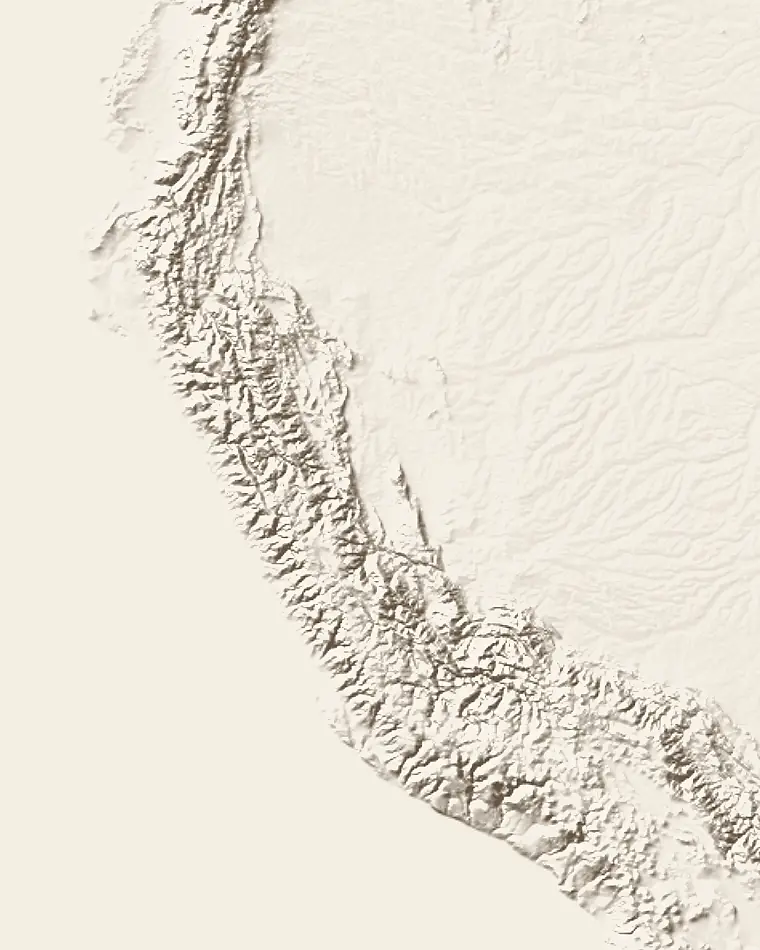
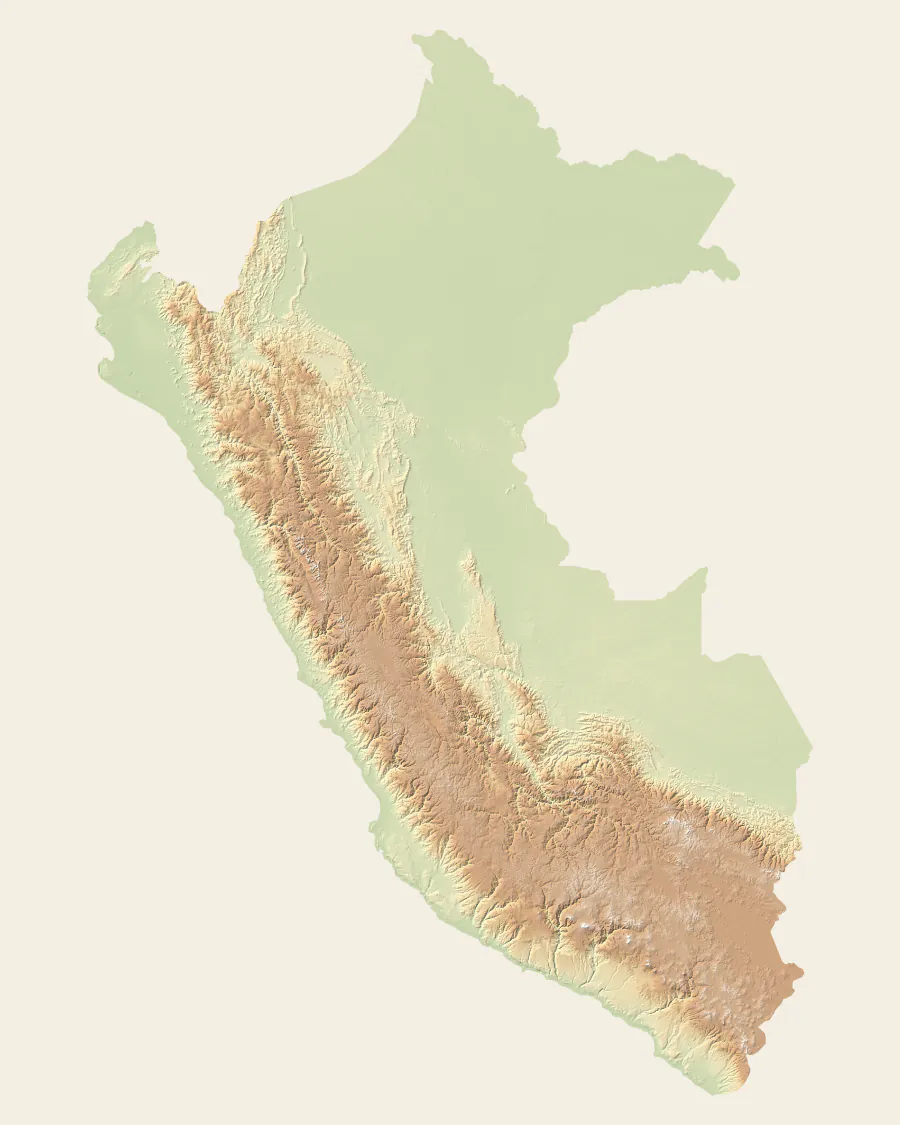
Mappa atlante del Perù a colori: tinta altimetrica da SRTM30_PLUS con rilievo a due livelli, mare e fiumi ad acquerello, vicini con velature da vecchio atlante; percorso nell'ordine vero dei giorni con curve e frecce, etichette e gruppi sistemati

diff --git a/src/components/MappaAtlante.tsx b/src/components/MappaAtlante.tsx
@@ -17,7 +17,7 @@ import type { DatiMappa, PuntoMappa } from './MappaPaese'
 
 export type DatiAtlante = {
   fonte: string
-  rilievo: { src: string; x: number; y: number; w: number; h: number }
+  rilievo: { src: string; srcHd?: string; x: number; y: number; w: number; h: number }
   vicini: { id: string; path: string }[]
   fiumi: { id: string; peso: number; path: string }[]
   laghi: { id: string; path: string }[]
@@ -50,7 +50,7 @@ const T = {
     esperienza: 'Esperienza',
     luoghiVicini: 'Luoghi vicini',
     percorso: 'Percorso, in ordine di tappa',
-    fonti: 'Contorni, fiumi e rilievo: Natural Earth. Luoghi:',
+    fonti: 'Contorni e fiumi: Natural Earth. Rilievo: SRTM30_PLUS (UCSD/NOAA). Luoghi:',
     contributors: 'contributors.',
     apriDestinazione: 'Apri la destinazione',
     apriEsperienza: "Apri l'esperienza",
@@ -78,7 +78,7 @@ const T = {
     esperienza: 'Experience',
     luoghiVicini: 'Places close together',
     percorso: 'Route, stop by stop',
-    fonti: 'Outlines, rivers and relief: Natural Earth. Places:',
+    fonti: 'Outlines and rivers: Natural Earth. Relief: SRTM30_PLUS (UCSD/NOAA). Places:',
     contributors: 'contributors.',
     apriDestinazione: 'Open the destination',
     apriEsperienza: 'Open the experience',
@@ -106,7 +106,7 @@ const T = {
     esperienza: 'Experiencia',
     luoghiVicini: 'Lugares cercanos',
     percorso: 'Ruta, etapa por etapa',
-    fonti: 'Contornos, ríos y relieve: Natural Earth. Lugares:',
+    fonti: 'Contornos y ríos: Natural Earth. Relieve: SRTM30_PLUS (UCSD/NOAA). Lugares:',
     contributors: 'contributors.',
     apriDestinazione: 'Abrir el destino',
     apriEsperienza: 'Abrir la experiencia',
@@ -129,14 +129,26 @@ const mercLat = (y: number) => (Math.atan(Math.exp((y * Math.PI) / 180)) * 360) 
 const sovrapposti = (p: Box, q: Box) => !(p[2] < q[0] || p[0] > q[2] || p[3] < q[1] || p[1] > q[3])
 
 // carta, inchiostro e acque «da stampa»
-const MARE = '#ebe5d7'
-const VICINO = '#dedad2'
-const BORDO_VICINO = '#aaa497'
-const ACQUA = '#557286'
-const RIGA = '#b9b3a4'
-const GRIGLIA = '#b8b09f'
+// acquerello: mare azzurro velato, più carico lungo le coste; Paesi vicini con una velatura ciascuno
+const MARE = '#dce8ea'
+const MARE_COSTA = '#cfe0e4'
+const ONDE = '#7d9eab'
+const ACQUA = '#3c6d8c' // fiumi e contorno dei laghi
+const SCRITTA_ACQUA = '#2c5873' // ≥ 4.5:1 sull'alone panna
+const RIGA = '#93b2bc'
+const GRIGLIA = '#a9a08c'
+const BORDO_VICINO = '#9e9789'
+const VELATURE: Record<string, [string, string]> = {
+  // [velatura, bordo più carico all'interno del confine]
+  ecuador: ['#f0dedb', '#e3bdb6'],
+  colombia: ['#f1e8c9', '#e2cf92'],
+  brasile: ['#e6e0ec', '#c9bcd8'],
+  bolivia: ['#f2e1cc', '#e3c39b'],
+  cile: ['#eedbe2', '#dcb6c3'],
+}
+const VELATURA_BASE: [string, string] = ['#e6e2da', '#cfc8ba']
 const DX = 16 // distanza dell'etichetta dal centro del pin, px
-const R_GRUPPO = 32 // sotto questa distanza (px) i luoghi si raggruppano
+const R_GRUPPO = 38 // sotto questa distanza (px) i luoghi si raggruppano
 
 /** Unità di posizione: punti nello stesso posto (esperienza = sua destinazione) stanno insieme. */
 type Luogo = { x: number; y: number; punti: PuntoMappa[]; prio: number }
@@ -148,6 +160,7 @@ export function MappaAtlante({
   atlante,
   punti,
   tappe,
+  percorso: sequenza,
   proiezione,
 }: {
   nomePaese: string
@@ -155,6 +168,8 @@ export function MappaAtlante({
   atlante: DatiAtlante
   punti: PuntoMappa[]
   tappe: TappaPercorso[]
+  /** il viaggio nell'ordine vero dei giorni (le destinazioni possono ripetersi, es. i rientri a Lima) */
+  percorso: { x: number; y: number }[]
   proiezione: { y0: number; s: number; oy: number }
 }) {
   const lingua = useLingua()
@@ -173,6 +188,8 @@ export function MappaAtlante({
   const [kVista, setKVista] = useState<number | null>(null)
   /** percorso: 'ssr' = già disegnato (niente JS / movimento ridotto), poi 'attesa' → 'visto' */
   const [fase, setFase] = useState<'ssr' | 'attesa' | 'visto'>('ssr')
+  /** il rilievo dettagliato si carica solo dopo il primo zoom */
+  const [dettaglio, setDettaglio] = useState(false)
 
   const sel = punti.find((p) => p.id === selId) ?? null
   const visibile = useCallback((p: PuntoMappa) => filtro === 'tutto' || p.tipo === filtro, [filtro])
@@ -223,19 +240,30 @@ export function MappaAtlante({
     return out
   }, [luoghi, kVista, selId, visibile])
 
-  // percorso: archi morbidi tra una tappa e la successiva
-  const percorso = useMemo(() => {
-    if (tappe.length < 2) return ''
-    let d = `M${tappe[0].x.toFixed(1)} ${tappe[0].y.toFixed(1)}`
-    for (let i = 1; i < tappe.length; i++) {
-      const a = tappe[i - 1], b = tappe[i]
+  // percorso: ogni tratto è un arco morbido che piega sempre alla destra del verso di marcia,
+  // così andata e ritorno sulla stessa tratta (Lima ⇄ Amazzonia) restano due archi distinti;
+  // a metà di ogni arco una freccia nel verso del viaggio
+  const { percorso, frecce } = useMemo(() => {
+    const pts = sequenza.length > 1 ? sequenza : tappe
+    if (pts.length < 2) return { percorso: '', frecce: [] as { x: number; y: number; a: number; len: number }[] }
+    let d = `M${pts[0].x.toFixed(1)} ${pts[0].y.toFixed(1)}`
+    const frecce: { x: number; y: number; a: number; len: number }[] = []
+    for (let i = 1; i < pts.length; i++) {
+      const a = pts[i - 1], b = pts[i]
       const mx = (a.x + b.x) / 2, my = (a.y + b.y) / 2
       const dx = b.x - a.x, dy = b.y - a.y
-      const c = 0.16 * (i % 2 ? 1 : -1)
-      d += `Q${(mx - dy * c).toFixed(1)} ${(my + dx * c).toFixed(1)} ${b.x.toFixed(1)} ${b.y.toFixed(1)}`
+      const c = 0.2
+      const cx = mx - dy * c, cy = my + dx * c
+      d += `Q${cx.toFixed(1)} ${cy.toFixed(1)} ${b.x.toFixed(1)} ${b.y.toFixed(1)}`
+      frecce.push({
+        x: 0.25 * a.x + 0.5 * cx + 0.25 * b.x,
+        y: 0.25 * a.y + 0.5 * cy + 0.25 * b.y,
+        a: (Math.atan2(dy, dx) * 180) / Math.PI,
+        len: Math.hypot(dx, dy),
+      })
     }
-    return d
-  }, [tappe])
+    return { percorso: d, frecce }
+  }, [sequenza, tappe])
 
   /** Applica il viewBox; elementi a misura fissa sullo schermo; etichette senza sovrapposizioni; scala. */
   const applica = useCallback(() => {
@@ -259,6 +287,11 @@ export function MappaAtlante({
       const sx = pxX(x), sy = pxY(y)
       if (g.dataset.statica !== undefined) {
         statiche.push({ g, sx, sy })
+        continue
+      }
+      if (g.dataset.len !== undefined) {
+        // frecce del percorso: solo sui tratti abbastanza lunghi sullo schermo
+        g.style.display = +g.dataset.len / k > 64 ? '' : 'none'
         continue
       }
       const raggio = +(g.dataset.raggio ?? 0)
@@ -293,12 +326,16 @@ export function MappaAtlante({
       const h = 12
       const raggio = +(g.dataset.raggio ?? 0)
       const proprio = ostacoli.find((q) => q[0] === sx - raggio && q[1] === sy - raggio)
-      const cand = [
-        { box: [sx + DX - 3, sy - h / 2, sx + DX + w, sy + h / 2] as Box, x: DX, y: 4, a: 'start' },
-        { box: [sx - DX - w, sy - h / 2, sx - DX + 3, sy + h / 2] as Box, x: -DX, y: 4, a: 'end' },
-        { box: [sx - w / 2, sy - DX - h, sx + w / 2, sy - DX + 1] as Box, x: 0, y: -DX - 2, a: 'middle' },
-        { box: [sx - w / 2, sy + DX - 1, sx + w / 2, sy + DX + h] as Box, x: 0, y: DX + 9, a: 'middle' },
-      ]
+      const gruppo = g.dataset.gruppo !== undefined
+      const D = gruppo ? 21 : DX // i gruppi hanno l'anello più largo
+      // sopra e sotto: centrata, ma spostata quanto basta per restare dentro la mappa (senza staccarsi dal pin)
+      const sposta = Math.max(Math.min(0, r.width - 4 - (sx + w / 2)), Math.max(0, 4 - (sx - w / 2)))
+      const sp = Math.abs(sposta) <= w / 2 - 6 ? sposta : 0
+      const destra = { box: [sx + D - 3, sy - h / 2, sx + D + w, sy + h / 2] as Box, x: D, y: 4, a: 'start' }
+      const sinistra = { box: [sx - D - w, sy - h / 2, sx - D + 3, sy + h / 2] as Box, x: -D, y: 4, a: 'end' }
+      const sopra = { box: [sx + sp - w / 2, sy - D - h, sx + sp + w / 2, sy - D + 1] as Box, x: sp, y: -D - 2, a: 'middle' }
+      const sotto = { box: [sx + sp - w / 2, sy + D - 1, sx + sp + w / 2, sy + D + h] as Box, x: sp, y: D + 9, a: 'middle' }
+      const cand = gruppo ? [destra, sotto, sopra, sinistra] : [destra, sinistra, sopra, sotto]
       const dentro = sx > -20 && sx < r.width + 20 && sy > -20 && sy < r.height + 20
       let c = dentro ? cand.find((c) => libera(c.box, proprio)) : undefined
       if (!c && dentro && g.dataset.sel === '1') c = cand.find((c) => c.box[0] >= 2 && c.box[2] <= r.width - 2) ?? cand[0]
@@ -319,9 +356,9 @@ export function MappaAtlante({
       if (ok) presi.push(box)
     }
 
-    // il rilievo 1:50m da vicino si sgrana: sfuma man mano che si ingrandisce
-    const ril = svg.querySelector<SVGImageElement>('[data-rilievo]')
-    if (ril) ril.setAttribute('opacity', (0.35 + 0.6 * Math.min(1, Math.max(0, (k - 0.1) / 0.5))).toFixed(2))
+    // il rilievo (~1 km per pixel) da molto vicino si sgrana: sfuma un poco nelle ultime fasi dello zoom
+    const op = (0.62 + 0.36 * Math.min(1, Math.max(0, (k - 0.05) / 0.3))).toFixed(2)
+    svg.querySelectorAll<SVGImageElement>('[data-rilievo]').forEach((im) => im.setAttribute('opacity', op))
 
     // scala grafica alla latitudine del centro della vista
     const bar = scalaRef.current
@@ -338,6 +375,10 @@ export function MappaAtlante({
       if (meta) meta.textContent = String(km / 2)
     }
   }, [proiezione, t.kmScala])
+
+  useEffect(() => {
+    if (kVista !== null && kVista < 0.75 * (mappa.w / 1000)) setDettaglio(true)
+  }, [kVista, mappa.w])
 
   const kDi = useCallback((vb: VB) => {
     const r = svgRef.current?.getBoundingClientRect()
@@ -594,15 +635,20 @@ export function MappaAtlante({
               <defs>
                 {/* onde incise del mare: due file sfalsate di trattini ondulati */}
                 <pattern id={P('onde')} width={34} height={18} patternUnits="userSpaceOnUse">
-                  <g fill="none" stroke="#8d8676" strokeWidth={0.9} strokeLinecap="round" opacity={0.55}>
+                  <g fill="none" stroke={ONDE} strokeWidth={0.9} strokeLinecap="round" opacity={0.7}>
                     <path d="M2 5q3-2.6 6 0t6 0" />
                     <path d="M19 14q3-2.6 6 0t6 0" />
                   </g>
                 </pattern>
                 {/* tratteggio leggero dei Paesi vicini */}
                 <pattern id={P('tratteggio')} width={7} height={7} patternUnits="userSpaceOnUse" patternTransform="rotate(45)">
-                  <path d="M0 0V7" stroke="#b5afa3" strokeWidth={0.8} />
+                  <path d="M0 0V7" stroke="#8f887a" strokeWidth={0.7} opacity={0.35} />
                 </pattern>
+                {atlante.vicini.map((v) => (
+                  <clipPath key={v.id} id={P(`c-${v.id}`)}>
+                    <path d={v.path} />
+                  </clipPath>
+                ))}
                 <clipPath id={P('paese')}>
                   <path d={mappa.path} />
                 </clipPath>
@@ -624,32 +670,45 @@ export function MappaAtlante({
                 </mask>
               </defs>
 
-              {/* mare */}
+              {/* mare: azzurro acquerello con le onde incise */}
+              <rect width={mappa.w} height={mappa.h} fill={MARE} />
               <rect width={mappa.w} height={mappa.h} fill={`url(#${P('onde')})`} />
-              {/* righe d'acqua lungo le coste (tratto largo coperto da uno più stretto color mare) */}
+              {/* lungo le coste l'acquerello si carica e le righe d'acqua coprono le onde */}
               <g fill="none" strokeLinejoin="round">
+                {[64, 40].map((w, i) => (
+                  <g key={w} opacity={i ? 1 : 0.7}>
+                    <path d={mappa.path} stroke={MARE_COSTA} strokeWidth={w} vectorEffect="non-scaling-stroke" />
+                    {atlante.vicini.map((v) => (
+                      <path key={v.id} d={v.path} stroke={MARE_COSTA} strokeWidth={w} vectorEffect="non-scaling-stroke" />
+                    ))}
+                  </g>
+                ))}
                 {[30, 20, 11].map((w) => (
                   <g key={w}>
                     <path d={mappa.path} stroke={RIGA} strokeWidth={w} vectorEffect="non-scaling-stroke" />
                     {atlante.vicini.map((v) => (
                       <path key={v.id} d={v.path} stroke={RIGA} strokeWidth={w} vectorEffect="non-scaling-stroke" />
                     ))}
-                    <path d={mappa.path} stroke={MARE} strokeWidth={w - 1.6} vectorEffect="non-scaling-stroke" />
+                    <path d={mappa.path} stroke={MARE_COSTA} strokeWidth={w - 1.6} vectorEffect="non-scaling-stroke" />
                     {atlante.vicini.map((v) => (
-                      <path key={v.id} d={v.path} stroke={MARE} strokeWidth={w - 1.6} vectorEffect="non-scaling-stroke" />
+                      <path key={v.id} d={v.path} stroke={MARE_COSTA} strokeWidth={w - 1.6} vectorEffect="non-scaling-stroke" />
                     ))}
                   </g>
                 ))}
               </g>
 
-              {/* Paesi vicini: grigio chiaro, tratteggio, bordo sottile */}
+              {/* Paesi vicini: una velatura tenue ciascuno, più carica lungo il confine (come i vecchi atlanti) */}
               <g>
-                {atlante.vicini.map((v) => (
-                  <g key={v.id}>
-                    <path d={v.path} fill={VICINO} stroke={VICINO} strokeWidth={2} vectorEffect="non-scaling-stroke" />
-                    <path d={v.path} fill={`url(#${P('tratteggio')})`} stroke={BORDO_VICINO} strokeWidth={0.9} strokeLinejoin="round" vectorEffect="non-scaling-stroke" />
-                  </g>
-                ))}
+                {atlante.vicini.map((v) => {
+                  const [velo, bordo] = VELATURE[v.id] ?? VELATURA_BASE
+                  return (
+                    <g key={v.id}>
+                      <path d={v.path} fill={velo} stroke={velo} strokeWidth={2} vectorEffect="non-scaling-stroke" />
+                      <path d={v.path} fill="none" stroke={bordo} strokeWidth={9} opacity={0.8} clipPath={`url(#${P(`c-${v.id}`)})`} vectorEffect="non-scaling-stroke" />
+                      <path d={v.path} fill={`url(#${P('tratteggio')})`} stroke={BORDO_VICINO} strokeWidth={0.9} strokeLinejoin="round" vectorEffect="non-scaling-stroke" />
+                    </g>
+                  )
+                })}
               </g>
 
               {/* il Paese: inchiostro sotto, carta, rilievo ritagliato sulla forma */}
@@ -664,13 +723,28 @@ export function MappaAtlante({
                 preserveAspectRatio="none"
                 clipPath={`url(#${P('paese')})`}
                 data-rilievo=""
-                opacity={0.95}
+                opacity={0.98}
               />
+              {dettaglio && atlante.rilievo.srcHd && (
+                <image
+                  href={atlante.rilievo.srcHd}
+                  x={atlante.rilievo.x}
+                  y={atlante.rilievo.y}
+                  width={atlante.rilievo.w}
+                  height={atlante.rilievo.h}
+                  preserveAspectRatio="none"
+                  clipPath={`url(#${P('paese')})`}
+                  data-rilievo=""
+                  opacity={0.98}
+                />
+              )}
+              {/* contorno a inchiostro anche sopra la tinta, sottile */}
+              <path d={mappa.path} fill="none" stroke="var(--color-ink)" strokeWidth={0.8} strokeLinejoin="round" opacity={0.7} vectorEffect="non-scaling-stroke" />
 
               {/* acque interne */}
               <g fill="none" strokeLinecap="round" strokeLinejoin="round">
                 {atlante.fiumi.map((f) => (
-                  <path key={f.id} d={f.path} stroke={ACQUA} strokeWidth={f.peso === 3 ? 2 : f.peso === 2 ? 1.4 : 0.9} opacity={0.85} vectorEffect="non-scaling-stroke" />
+                  <path key={f.id} d={f.path} stroke={ACQUA} strokeWidth={f.peso === 3 ? 2.1 : f.peso === 2 ? 1.5 : 1} opacity={0.9} vectorEffect="non-scaling-stroke" />
                 ))}
               </g>
               {atlante.laghi.map((l) => (
@@ -689,6 +763,11 @@ export function MappaAtlante({
                 <g mask={`url(#${P('traccia')})`}>
                   <path d={percorso} fill="none" stroke="var(--color-cream)" strokeWidth={5} strokeLinecap="round" strokeLinejoin="round" opacity={0.85} vectorEffect="non-scaling-stroke" />
                   <path d={percorso} fill="none" stroke="var(--color-rosso)" strokeWidth={2.2} strokeDasharray="7 5" strokeLinecap="round" vectorEffect="non-scaling-stroke" />
+                  {frecce.map((f, i) => (
+                    <g key={i} data-fisso="" data-x={f.x} data-y={f.y} data-len={f.len} transform={`translate(${f.x} ${f.y}) scale(${scala0})`} aria-hidden>
+                      <path d="M-4.5 -4 L4.5 0 L-4.5 4 L-2.6 0 Z" transform={`rotate(${f.a.toFixed(1)})`} fill="var(--color-rosso)" stroke="var(--color-cream)" strokeWidth={1} strokeLinejoin="round" />
+                    </g>
+                  ))}
                 </g>
               )}
 
@@ -704,13 +783,13 @@ export function MappaAtlante({
                         textAnchor="middle"
                         className={
                           e.tipo === 'mare'
-                            ? 'fill-stone font-display text-[11px] font-medium uppercase tracking-[0.42em]'
+                            ? 'font-display text-[11px] font-medium uppercase tracking-[0.42em]'
                             : acqua
                               ? 'font-sans text-[10px] italic tracking-[0.12em]'
                               : 'fill-stone font-display text-[10.5px] font-semibold uppercase tracking-[0.3em]'
                         }
-                        fill={acqua ? ACQUA : undefined}
-                        style={e.tipo === 'mare' ? undefined : { paintOrder: 'stroke', stroke: acqua ? 'var(--color-cream)' : VICINO, strokeWidth: 3, strokeLinejoin: 'round' }}
+                        fill={acqua || e.tipo === 'mare' ? SCRITTA_ACQUA : undefined}
+                        style={e.tipo === 'mare' ? undefined : { paintOrder: 'stroke', stroke: acqua ? 'var(--color-cream)' : (VELATURE[e.id] ?? VELATURA_BASE)[0], strokeWidth: 3, strokeLinejoin: 'round' }}
                       >
                         {righe.map((riga, i) => (
                           <tspan key={i} x={0} dy={i === 0 ? `${(-(righe.length - 1) * 0.65 + 0.35).toFixed(2)}em` : '1.3em'}>
@@ -736,6 +815,7 @@ export function MappaAtlante({
                     data-x={g.x}
                     data-y={g.y}
                     data-raggio={13}
+                    data-gruppo=""
                     data-prio={capo ? prio(capo) : 300}
                     data-sel="0"
                     transform={`translate(${g.x} ${g.y}) scale(${scala0})`}

diff --git a/src/components/MappaPaeseSezione.tsx b/src/components/MappaPaeseSezione.tsx
@@ -197,12 +197,21 @@ export async function MappaPaeseSezione({
   const ne = punti.length - nd
 
   const atlante = leggiAtlante(paeseSlug)
-  // tappe del viaggio principale nell'ordine del percorso, solo quelle con una destinazione sulla mappa
+  // percorso vero del viaggio principale: le destinazioni dei giorni in ordine (con i rientri a Lima),
+  // senza ripetere giorni consecutivi nello stesso posto; le tappe sono numerate alla prima comparsa
   const tappe: TappaPercorso[] = []
+  const percorso: { x: number; y: number }[] = []
   if (atlante) {
-    for (const tp of getTripMeta(ATLANTE[paeseSlug].viaggio, lingua)?.tappeMappa ?? []) {
-      const p = tp.destinazioneSlug && punti.find((q) => q.id === `d:${tp.destinazioneSlug}`)
-      if (p && !tappe.some((q) => q.id === p.id)) tappe.push({ id: p.id, n: tappe.length + 1, x: p.x, y: p.y })
+    const meta = getTripMeta(ATLANTE[paeseSlug].viaggio, lingua)
+    const sequenza = (meta?.giorni ?? []).map((g) => g.destinazioneSlug).filter((s): s is string => !!s)
+    const slugs = sequenza.length > 1 ? sequenza : (meta?.tappeMappa ?? []).map((t) => t.destinazioneSlug).filter((s): s is string => !!s)
+    let ultimo = ''
+    for (const slug of slugs) {
+      const p = punti.find((q) => q.id === `d:${slug}`)
+      if (!p || p.id === ultimo) continue
+      ultimo = p.id
+      percorso.push({ x: p.x, y: p.y })
+      if (!tappe.some((q) => q.id === p.id)) tappe.push({ id: p.id, n: tappe.length + 1, x: p.x, y: p.y })
     }
   }
 
@@ -221,6 +230,7 @@ export async function MappaPaeseSezione({
             atlante={atlante}
             punti={punti}
             tappe={tappe}
+            percorso={percorso}
             proiezione={{ y0: file.proiezione.y0, s: file.proiezione.s, oy: file.proiezione.oy }}
           />
         ) : (
